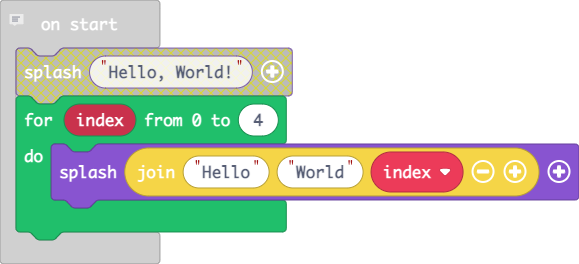
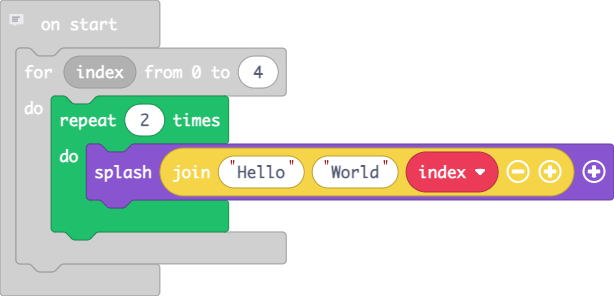
Update main.blocks, main.ts

diff --git a/main.ts b/main.ts
@@ -1,4 +1,6 @@
 // Make sure to read all the requirements & add comments to your code!
 for (let index = 0; index <= 4; index++) {
-    game.splash("Hello" + "World" + index)
+    for (let index2 = 0; index2 < 2; index2++) {
+        game.splash("Hello" + "World" + index)
+    }
 }
